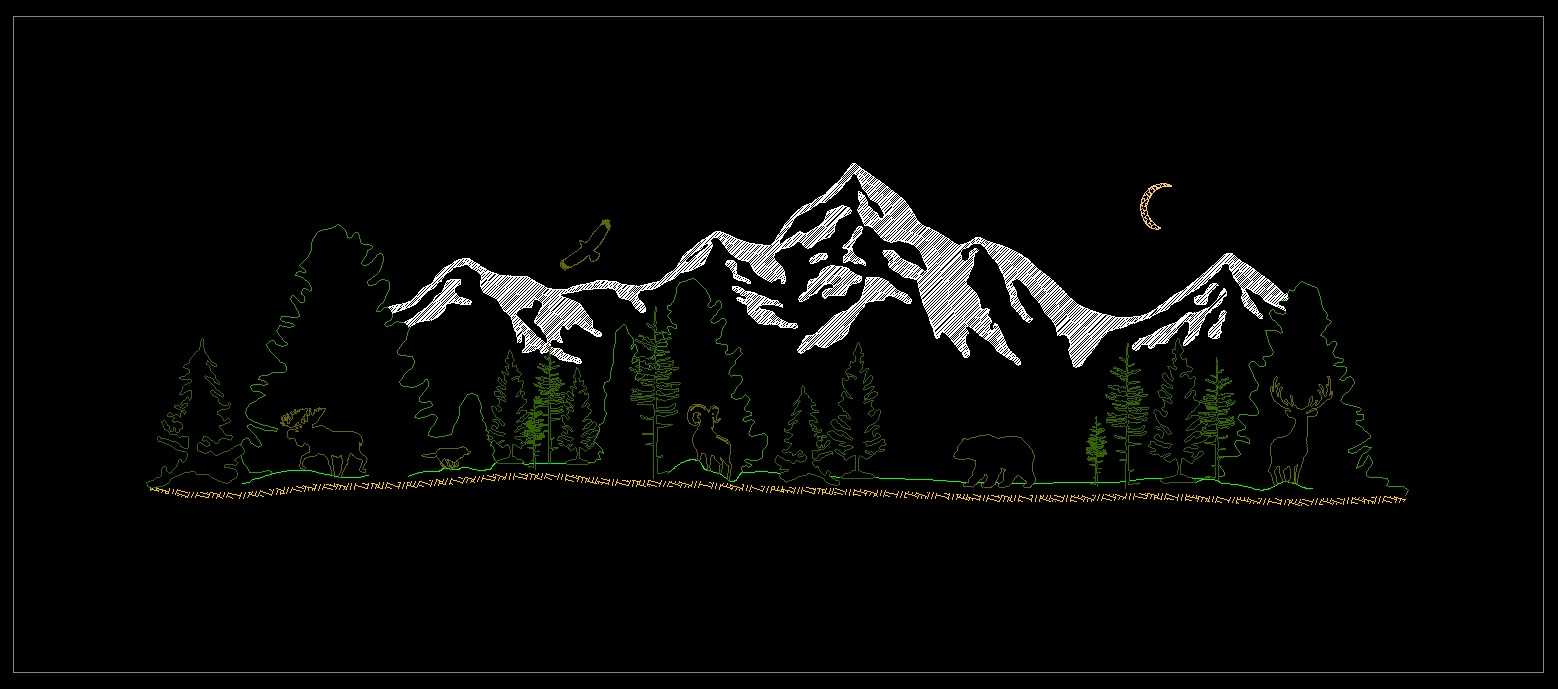
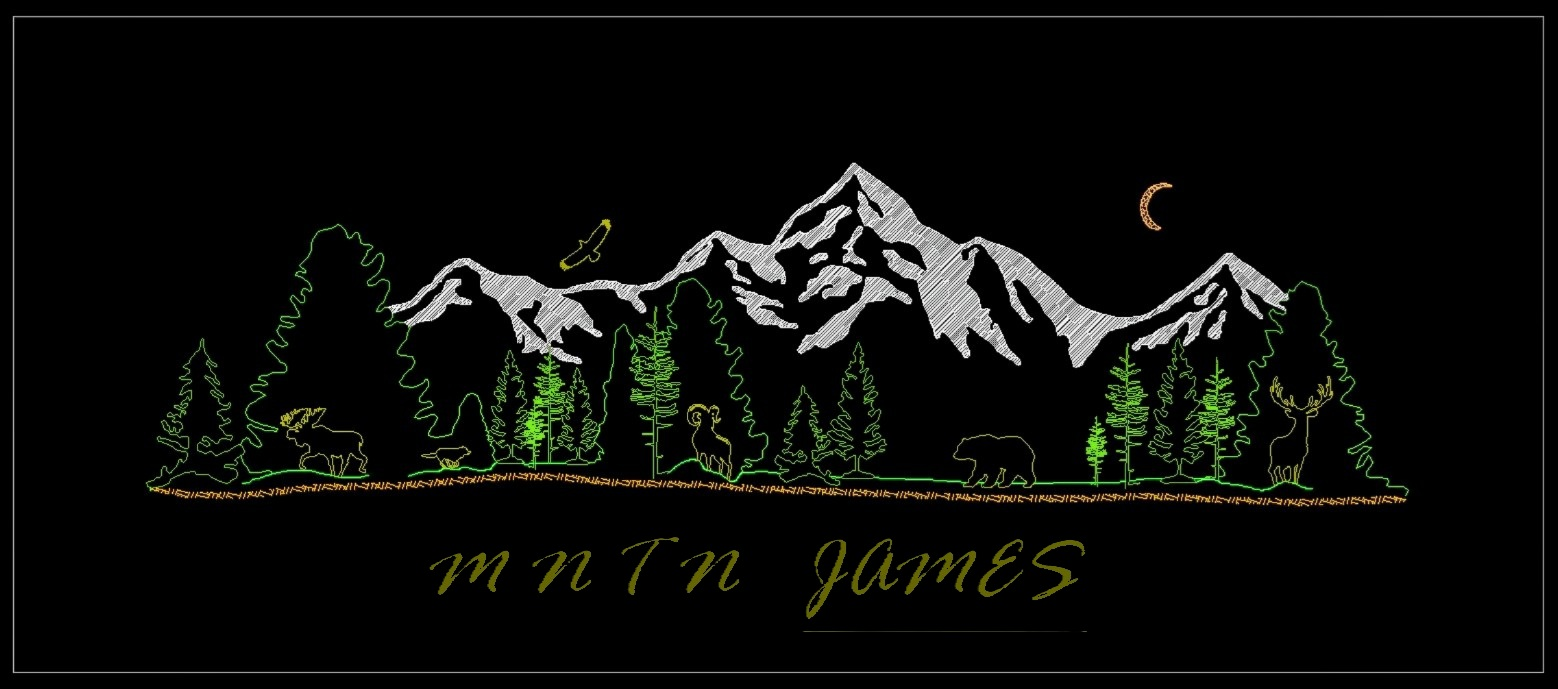
contact page

diff --git a/src/App.css b/src/App.css
@@ -74,6 +74,7 @@ button {
   position: sticky;
   top: 0;
   z-index: 100;
+  border-bottom: 1px solid var(--bg-cream);
 }
 
 .navbar-logo {
@@ -94,7 +95,7 @@ button {
 
 .navbar-links {
   display: flex;
-  gap: 1.5rem;
+  gap: 1rem;
 }
 
 .navbar-link {
@@ -667,4 +668,125 @@ button {
   font-size: 16px;
   line-height: 1.8;
   color: #4a3218;
+}
+
+/* =====================
+   Contact Page
+   ===================== */
+
+.contact-page {
+  min-height: 100vh;
+  background: var(--border);
+  color: var(--text-muted);
+  padding: 20px 20px;
+}
+
+.contact-container {
+  max-width: 900px;
+  margin: 0 auto;
+}
+
+.contact-title {
+  text-align: center;
+  font-size: 2.5rem;
+  font-weight: 700;
+  margin-bottom: 20px;
+  letter-spacing: 2px;
+  color: var(--text-muted);
+}
+
+/* .contact-page-img-wrapper {
+  background-image: linear-gradient(5deg,
+      var(--bg-cream),
+      var(--bg-dark-mid),
+      var(--bg-card-hover),
+      green);
+  margin-bottom: 30px;
+}
+
+.contact-page-img {
+  width: 20%;
+  display: flex;
+  margin: 0.25px auto 10px;
+  border-radius: 20px;
+}
+
+@media (min-width: 768px) {
+  .contact-page-img {
+    width: 10%;
+  }
+} */
+
+.contact-form {
+  display: flex;
+  flex-direction: column;
+  gap: 36px;
+  margin-top: 30px;
+}
+
+.name-row {
+  display: grid;
+  grid-template-columns: 1fr 1fr;
+  gap: 20px;
+}
+
+.field-group {
+  display: flex;
+  flex-direction: column;
+}
+
+.field-group span {
+  margin-bottom: 10px;
+  font-size: 1.1rem;
+}
+
+.field-group input,
+.field-group textarea {
+  width: 100%;
+  border: none;
+  background: var(--bg-cream);
+  color: var(--bg-dark);
+  font-size: 1rem;
+  padding: 16px;
+  box-sizing: border-box;
+  border-radius: 10px;
+}
+
+.field-group input:hover,
+.field-group textarea:hover {
+  background-color: var(--text-muted);
+}
+
+.field-group textarea {
+  resize: vertical;
+  min-height: 140px;
+}
+
+.contact-submit {
+  width: 160px;
+  height: 50px;
+  margin: 10px auto 20px;
+  border: none;
+  background: var(--accent);
+  color: var(--text-light);
+  font-size: 1.5rem;
+  cursor: pointer;
+  transition: opacity 0.2s ease;
+  border-radius: 30px;
+}
+
+.contact-submit:hover {
+  opacity: 0.85;
+  transform: translateY(-1px)
+}
+
+@media (max-width: 768px) {
+  .name-row {
+    grid-template-columns: 1fr;
+  }
+
+  .contact-title {
+    font-size: 2.2rem;
+    margin-bottom: 20px;
+  }
 }

diff --git a/src/pages/ContactPage.jsx b/src/pages/ContactPage.jsx
@@ -1,0 +1,54 @@
+export default function ContactPage() {
+    return (
+        <div className="contact-page">
+            <div className="contact-container">
+                <h1 className="contact-title">CONTACT</h1>
+
+                {/* <div className="contact-page-img-wrapper">
+                    <img className="contact-page-img" src="/images/mntn-peak.jpg" alt="" />
+                </div> */}
+
+                <form className="contact-form">
+                    <div className="form-section">
+
+                        <div className="name-row">
+                            <div className="field-group">
+                                <span>First Name (required)</span>
+                                <input type="text" maxLength={50}required />
+                            </div>
+
+                            <div className="field-group">
+                                <span>Last Name (required)</span>
+                                <input type="text" maxLength={50} required />
+                            </div>
+                        </div>
+                    </div>
+
+                    <div className="field-group">
+                        <span>Email (required)</span>
+                        <input type="email" maxLength={50} required />
+                    </div>
+
+                    <div className="field-group">
+                        <span>Subject (required)</span>
+                        <input type="text" maxLength={125} required />
+                    </div>
+
+                    <div className="field-group">
+                        <span>Message (required)</span>
+                        <textarea rows="6" required />
+                    </div>
+
+                    <button type="submit" className="contact-submit">
+                        Submit
+                    </button>
+                </form>
+
+                <div className="section-divider" />
+                <p className="shows-text">
+                    <i>'loren ipsum'</i>
+                </p>
+            </div>
+        </div>
+    );
+}

diff --git a/src/data/tracks.js b/src/data/tracks.js
@@ -41,14 +41,14 @@ export const albums = [
     color: '#3b5e3a',
     coverArt: '/images/elk demos artwork-2.png'
   },
-  {
-    id: 5,
-    slug: "elk-demos",
-    title: 'Eagle Demos',
-    year: 2027,
-    color: '#3b5e3a',
-    coverArt: '/images/eagle demos artwork-1.png'
-  },
+  // {
+  //   id: 5,
+  //   slug: "eagle-demos",
+  //   title: 'Eagle Demos',
+  //   year: 2027,
+  //   color: '#3b5e3a',
+  //   coverArt: '/images/eagle demos artwork-1.png'
+  // },
 ];
 
 export const tracks = [
@@ -61,7 +61,6 @@ export const tracks = [
     durationSecs: 169,
     color: '#7c4e2a',
     src: `https://res.cloudinary.com/${CLOUD}/video/upload/q_auto/f_auto/v1781623529/01.Watch_Me_Walk_Out_1_deptg2.wav`,
-    // src: '/demos/bear demos/01.Watch Me Walk Out_1.wav',
   },
   {
     id: 2,
@@ -71,8 +70,7 @@ export const tracks = [
     duration: '3:05',
     durationSecs: 185,
     color: '#3b5e3a',
-    // src: `https://res.cloudinary.com/${CLOUD}/video/upload/q_auto/f_auto/v1781624067/02.Everything_Has_Gone_And_Changed2_szhhel.wav`,
-    src: '/demos/bear demos/02.Everything Has Gone And Changed2.wav',
+    src: `https://res.cloudinary.com/${CLOUD}/video/upload/q_auto/f_auto/v1781624067/02.Everything_Has_Gone_And_Changed2_szhhel.wav`,
   },
   {
     id: 3,
@@ -106,14 +104,13 @@ export const tracks = [
   },
 
   {
-    id: 20,
+    id: 40,
     title: 'Let The Night Erupt',
     album: 'Ram Demos',
     albumId: 3,
     duration: '2:57',
     durationSecs: 177,
     color: 'orange ',
-    // src: `https://res.cloudinary.com/${CLOUD}/video/upload/q_auto/f_auto/v1781624829/1.let_the_night_erupt_jw9kjy.wav`,
-    src: '/demos/ram demos/1.let the night erupt.wav',
+    src: `https://res.cloudinary.com/${CLOUD}/video/upload/q_auto/f_auto/v1781624829/1.let_the_night_erupt_jw9kjy.wav`,
   },
 ];

diff --git a/src/App.jsx b/src/App.jsx
@@ -7,6 +7,7 @@ import HomePage from './pages/HomePage';
 import DemosPage from './pages/DemosPage';
 import AlbumPage from './pages/AlbumPage';
 import AboutPage from './pages/AboutPage';
+import ContactPage from './pages/ContactPage';
 
 export default function App() {
   const player = usePlayer();
@@ -21,6 +22,8 @@ export default function App() {
           <Route path="/demos" element={<DemosPage player={player} />} />
           <Route path="/demos/:slug" element={<AlbumPage player={player} />} />
           <Route path="/about" element={<AboutPage />} />
+          <Route path="/contact" element={<ContactPage />} />
+
         </Routes>
       </main>
 

diff --git a/src/components/HeroHeader.jsx b/src/components/HeroHeader.jsx
@@ -12,7 +12,7 @@ export default function HeroHeader({ onBrowse }) {
             src="/images/mntn-peak.jpg">
           </img>
         </h1>
-        <p className="hero-subtitle">Original Demos &nbsp;·&nbsp; Stream &amp; Listen</p>
+        <p className="hero-subtitle">Songwriter &nbsp;·&nbsp; Los Angeles, CA</p>
         <button className="hero-btn" onClick={onBrowse}>
           Browse Demos
         </button>

diff --git a/src/pages/AboutPage.jsx b/src/pages/AboutPage.jsx
@@ -2,7 +2,7 @@ export default function AboutPage() {
   return (
     <>
       <div className="about-page-img-wrapper">
-        <img className="about-page-img" src="/images/about-header-1.jpg" alt="" />
+        <img className="about-page-img" src="/images/about-header-2.jpg" alt="" />
       </div>
 
       <div className="page-content--narrow">

diff --git a/src/pages/HomePage.jsx b/src/pages/HomePage.jsx
@@ -19,7 +19,7 @@ export default function HomePage({ player }) {
 
       <div className="page-content">
         <div className="section-label">
-          Latest — {latestAlbum.title}
+          Latest — {latestAlbum.title} &nbsp;·&nbsp; {latestAlbum.year}
           <div className="section-divider" />
         </div>
 

diff --git a/src/components/Navbar.jsx b/src/components/Navbar.jsx
@@ -3,6 +3,7 @@ import { NavLink } from 'react-router-dom';
 const navItems = [
   { label: 'Demos', to: '/demos' },
   { label: 'About', to: '/about' },
+  { label: 'Contact', to: '/contact' },
 ];
 
 export default function Navbar() {